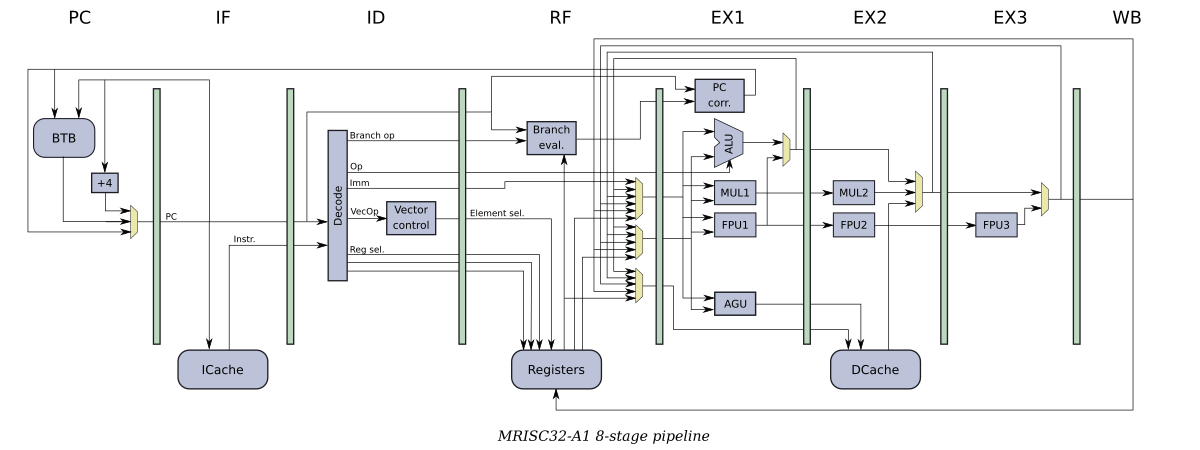
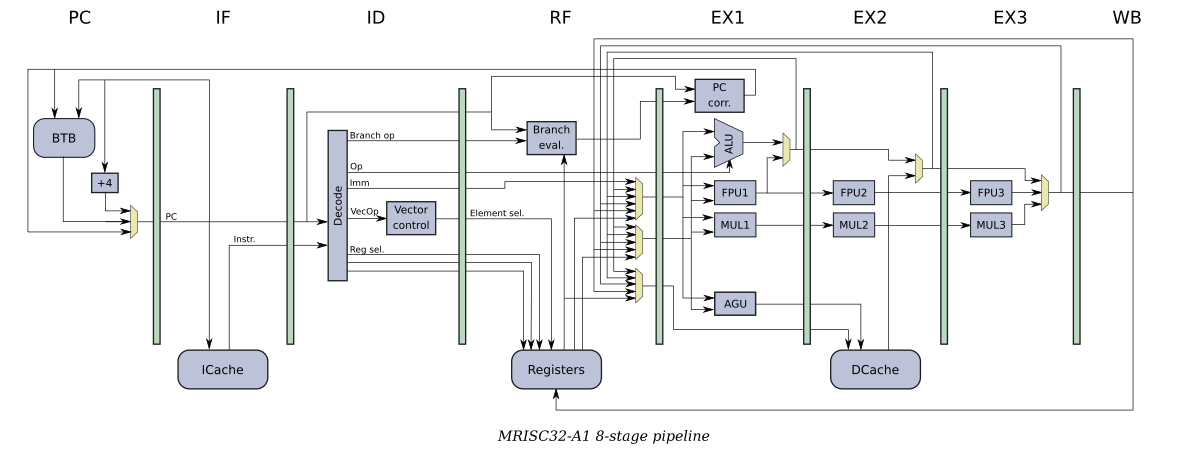
A1: Extend the multiply pipeline to 3 stages

diff --git a/mrisc32-a1/README.md b/mrisc32-a1/README.md
@@ -21,8 +21,8 @@ The CPU is still under development. So far, the following components have been i
   - Operand forwarding.
 * The integer ALU.
   - All single-cycle unpacked integer operations are supported.
-* A pipelined (two-cycle) multiply unit.
-  - Supports all unpacked integer multiplication operations.
+* A pipelined (three-cycle) multiply unit.
+  - Supports all packed and unpacked integer multiplication operations.
 * An FPU.
   - Currently only a subset of all the FPU instructions is implemented.
 * The scalar register file.
